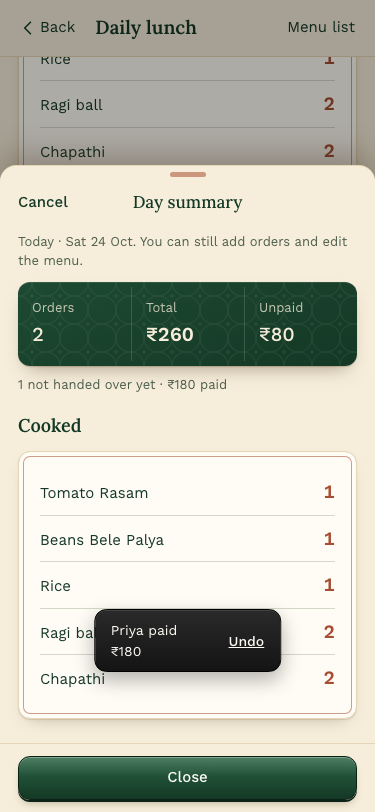
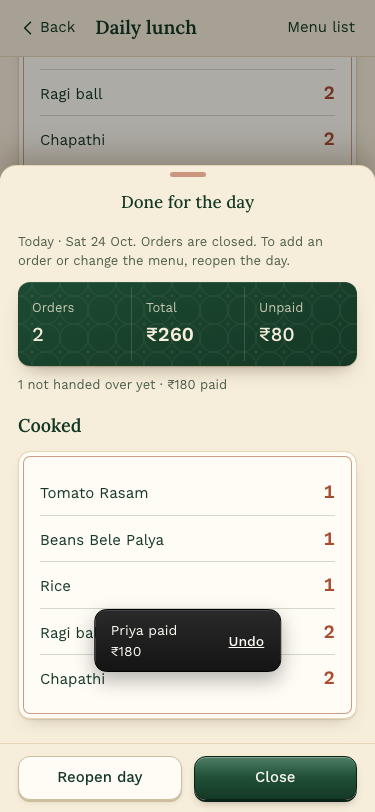
Make done for the day close the day, with Reopen and Close
Done for the day marks the day and shows its summary with Reopen day and
Close. Close goes to the next day's menu if set, otherwise the day to view.
A done day is view only: no Add order or Edit menu, orders don't open;
payments can still be marked.

diff --git a/site/public/index.html b/site/public/index.html
@@ -123,6 +123,8 @@ button.row:hover{background:color-mix(in srgb,var(--raised) 45%,transparent)}
 .order .what{font-size:var(--fs-small);color:var(--muted);margin-top:3px;width:100%;text-align:left;display:block}
 .order .ctl{display:flex;gap:8px;margin-top:10px;flex-wrap:wrap}
 .order .ctl .chip{height:44px;padding:0 16px;font-size:14px}
+.order .ctl .state{display:inline-flex;align-items:center;gap:6px;height:44px;font-size:14px;color:var(--muted)}
+.order .ctl .state svg{width:16px;height:16px}
 .tag{font-size:12px;color:var(--muted);flex:none}
 
 .chip{display:inline-flex;align-items:center;gap:6px;height:36px;padding:0 14px;border-radius:999px;
@@ -881,7 +883,7 @@ function fmtKg(kg){ kg=Math.round(kg*100)/100; return kg+" kg"; }
 /* ======================= LUNCH ======================= */
 function viewLunch(q){
   var t=todayKey(), tm=addDays(t,1);
-  var d=q.d||(lunchOn(t)||!lunchOn(tm)?t:tm);
+  var lt=lunchOn(t), d=q.d||(lt&&lt.status!=="done"||!lunchOn(tm)?t:tm);
   var ev=lunchOn(d);
   var seg='';
   if(d===t||d===tm) seg='<div class="seg full" role="group" aria-label="Day" style="margin-top:4px"><button aria-pressed="'+(d===t)+'" onclick="go(\'#/lunch?d='+t+'\')">Today · '+fmtDate(t)+'</button><button aria-pressed="'+(d===tm)+'" onclick="go(\'#/lunch?d='+tm+'\')">Tomorrow · '+fmtDate(tm)+'</button></div>';
@@ -896,10 +898,11 @@ function viewLunch(q){
     }
   } else {
     body=eventBody(ev);
-    dock('<button class="btn secondary" onclick="doneForDay(\''+ev.id+'\')">'+(ev.status==="done"?"Day summary":"Done for the day")+'</button><button class="btn primary" onclick="openOrder(\''+ev.id+'\')">Add order</button>');
+    dock(ev.status==="done"?'<button class="btn secondary" onclick="reopenDay(\''+ev.id+'\')">Reopen day</button>':
+      '<button class="btn secondary" onclick="doneForDay(\''+ev.id+'\')">Done for the day</button><button class="btn primary" onclick="openOrder(\''+ev.id+'\')">Add order</button>');
   }
   $app.innerHTML=bar("Daily lunch","#/",'<a class="act" href="#/menu/lunch">Menu list</a>')+'<main class="page">'+seg+
-    (ev?'<div style="display:flex;align-items:baseline;gap:8px;margin-top:18px"><h2 class="title">'+relDate(d)+'</h2>'+(ev.status==="done"?'<span class="pill">Done for the day</span>':'')+'<a class="btn text" style="margin-left:auto" href="#/lunch/setup?d='+d+'">Edit menu</a></div>':'')+
+    (ev?'<div style="display:flex;align-items:baseline;gap:8px;margin-top:18px"><h2 class="title">'+relDate(d)+'</h2>'+(ev.status==="done"?'<span class="pill">Done for the day</span>':'<a class="btn text" style="margin-left:auto" href="#/lunch/setup?d='+d+'">Edit menu</a>')+'</div>':'')+
     body+(d!==t&&d!==tm?'':'<p class="foot">Past days are in History.</p>')+'</main>';
   tabbar("home");
 }
@@ -963,14 +966,15 @@ function priceDesc(it){
   return rupee(it.rate)+" "+UNIT_LABEL[it.unit]+(it.pair?" · "+rupee(it.pair)+" for 2":"");
 }
 function orderRow(ev,o){
-  var t=orderTotal(ev,o);
-  var del=o.delivered?'<button class="chip on-del" onclick="toggleDel(\''+ev.id+'\',\''+o.id+'\')" aria-pressed="true">'+I.check+'Handed over</button>':
+  var t=orderTotal(ev,o), ro=ev.kind==="lunch"&&ev.status==="done";
+  var del=ro?'<span class="state">'+(o.delivered?I.check+"Handed over":"Not handed over")+'</span>':o.delivered?'<button class="chip on-del" onclick="toggleDel(\''+ev.id+'\',\''+o.id+'\')" aria-pressed="true">'+I.check+'Handed over</button>':
     '<button class="chip" onclick="toggleDel(\''+ev.id+'\',\''+o.id+'\')" aria-pressed="false">'+I.circle+'Hand over</button>';
   var pay=o.untracked?'<span class="pill">Payment not tracked</span>':(o.paid?'<button class="chip paid" onclick="togglePaid(\''+ev.id+'\',\''+o.id+'\')" aria-pressed="true">'+I.check+'Paid</button>':
     '<button class="chip unpaid" onclick="togglePaid(\''+ev.id+'\',\''+o.id+'\')" aria-pressed="false">Unpaid</button>');
   var chg=(Number(o.changeDue)>0&&!o.changeGiven)?'<button class="chip change" onclick="giveChange(\''+ev.id+'\',\''+o.id+'\')">Change due '+rupee(o.changeDue)+'</button>':'';
-  return '<div class="order"><button class="top" onclick="openOrder(\''+ev.id+'\',\''+o.id+'\')"><span class="who">'+esc(o.name||"No name")+'</span><span class="tag">'+(o.ch==="dm"?"DM":"Group")+'</span><span class="amt num">'+rupee(t)+'</span></button>'+
-    '<button class="what" onclick="openOrder(\''+ev.id+'\',\''+o.id+'\')">'+esc(orderWhat(ev,o))+'</button>'+
+  var tag=ro?'div':'button', open=ro?'':' onclick="openOrder(\''+ev.id+'\',\''+o.id+'\')"';
+  return '<div class="order"><'+tag+' class="top"'+open+'><span class="who">'+esc(o.name||"No name")+'</span><span class="tag">'+(o.ch==="dm"?"DM":"Group")+'</span><span class="amt num">'+rupee(t)+'</span></'+tag+'>'+
+    '<'+tag+' class="what"'+open+'>'+esc(orderWhat(ev,o))+'</'+tag+'>'+
     '<div class="ctl">'+del+pay+chg+'</div></div>';
 }
 function findOrder(evId,oId){ var ev=S.events[evId]; if(!ev) return {}; return {ev:ev,o:ev.orders.filter(function(o){return o.id===oId;})[0]}; }
@@ -982,18 +986,20 @@ function giveChange(evId,oId){ var f=findOrder(evId,oId); if(!f.o) return; f.o.c
 
 function doneForDay(evId){
   var ev=S.events[evId]; if(!ev) return;
-  var wasDone=ev.status==="done";
-  if(!wasDone){ ev.status="done"; save(); render(); }
+  ev.status="done"; save(); render();
   var st=eventStats(ev), kc=kitchenCount(ev).filter(function(c){return c.q;});
   var undel=ev.orders.filter(function(o){return !o.delivered;}).length;
-  openSheet({title:"Day summary",short:true,body:
-    '<p class="sub" style="margin:0 0 12px">'+relDate(ev.date)+' · '+fmtDate(ev.date)+'. You can still add orders and edit the menu.</p>'+
+  openSheet({title:"Done for the day",short:true,cancel:false,onclose:function(){ afterDay(ev); },body:
+    '<p class="sub" style="margin:0 0 12px">'+relDate(ev.date)+' · '+fmtDate(ev.date)+'. Orders are closed. To add an order or change the menu, reopen the day.</p>'+
     '<div class="card strip num"><div><div class="lab">Orders</div><div class="v">'+st.n+'</div></div><div><div class="lab">Total</div><div class="v money">'+rupee(st.total)+'</div></div><div><div class="lab">Unpaid</div><div class="v">'+rupee(st.unpaid)+'</div></div></div>'+
     '<p class="sub" style="margin-top:10px">'+(undel?undel+" not handed over yet":"All handed over")+' · '+rupee(st.paid)+' paid</p>'+
     (kc.length?'<div class="section" style="margin-top:18px"><h2>Cooked</h2><div class="card pad count">'+kc.map(function(c){return '<div class="ci"><div class="cn">'+esc(c.it.name)+'</div><div class="cv">'+c.q+'</div></div>';}).join("")+'</div></div>':''),
-    foot:(wasDone?'<button class="btn secondary" onclick="undoDone(\''+ev.id+'\')">Not done yet</button>':'')+'<button class="btn primary" onclick="closeSheet()">Close</button>'});
+    foot:'<button class="btn secondary" onclick="reopenDay(\''+ev.id+'\')">Reopen day</button><button class="btn primary" onclick="closeSheet()">Close</button>'});
 }
-function undoDone(id){ var ev=S.events[id]; if(ev){ ev.status="open"; save(); } closeSheet(); render(); }
+/* after closing the summary: the next day's menu if it's set, otherwise this day to look at */
+function afterDay(ev){ var nx=addDays(ev.date,1); go("#/lunch?d="+(lunchOn(nx)?nx:ev.date)); }
+function reopenDay(id){ var ev=S.events[id]; if(!ev) return; ev.status="open"; save(); sheetOnClose=null; closeSheet(); render();
+  toast("Day reopened",function(){ ev.status="done"; save(); render(); }); }
 
 /* lunch setup: date first (today or tomorrow), grouped list, price for that day only, combos */
 var draft=null;
@@ -1937,11 +1943,12 @@ function importOld(old){
 }
 
 /* ======================= SHEET + TOAST ======================= */
-var sheetOpen=false;
+var sheetOpen=false, sheetOnClose=null;
 function openSheet(o){
+  sheetOnClose=o.onclose||null;
   var root=document.getElementById("sheetRoot");
   root.innerHTML='<div class="scrim" onclick="closeSheet()"></div><div class="sheet'+(o.short?' short':'')+'" role="dialog" aria-modal="true" aria-label="'+esc(o.title)+'">'+
-    '<div class="drag"><div class="grab" aria-hidden="true"></div><div class="sh"><button class="btn text" onclick="closeSheet()">Cancel</button><h2>'+esc(o.title)+'</h2><span style="min-width:72px"></span></div></div>'+
+    '<div class="drag"><div class="grab" aria-hidden="true"></div><div class="sh">'+(o.cancel===false?'<span style="min-width:72px"></span>':'<button class="btn text" onclick="closeSheet()">Cancel</button>')+'<h2>'+esc(o.title)+'</h2><span style="min-width:72px"></span></div></div>'+
     '<div class="sb">'+o.body+'</div>'+(o.foot?'<div class="sf">'+o.foot+'</div>':'')+'</div>';
   sheetOpen=true; document.body.style.overflow="hidden";
   /* swipe down on the grabber or title bar to dismiss, as on iOS */
@@ -1955,6 +1962,7 @@ function openSheet(o){
 function closeSheet(instant){
   var root=document.getElementById("sheetRoot"); if(!sheetOpen) return;
   sheetOpen=false; document.body.style.overflow="";
+  var after=sheetOnClose; sheetOnClose=null; if(after) setTimeout(after,0);
   if(SYNC.needRender) setTimeout(softRender,300);
   var s=root.querySelector(".sheet"), sc=root.querySelector(".scrim");
   if(instant||!s){ root.innerHTML=""; return; }
